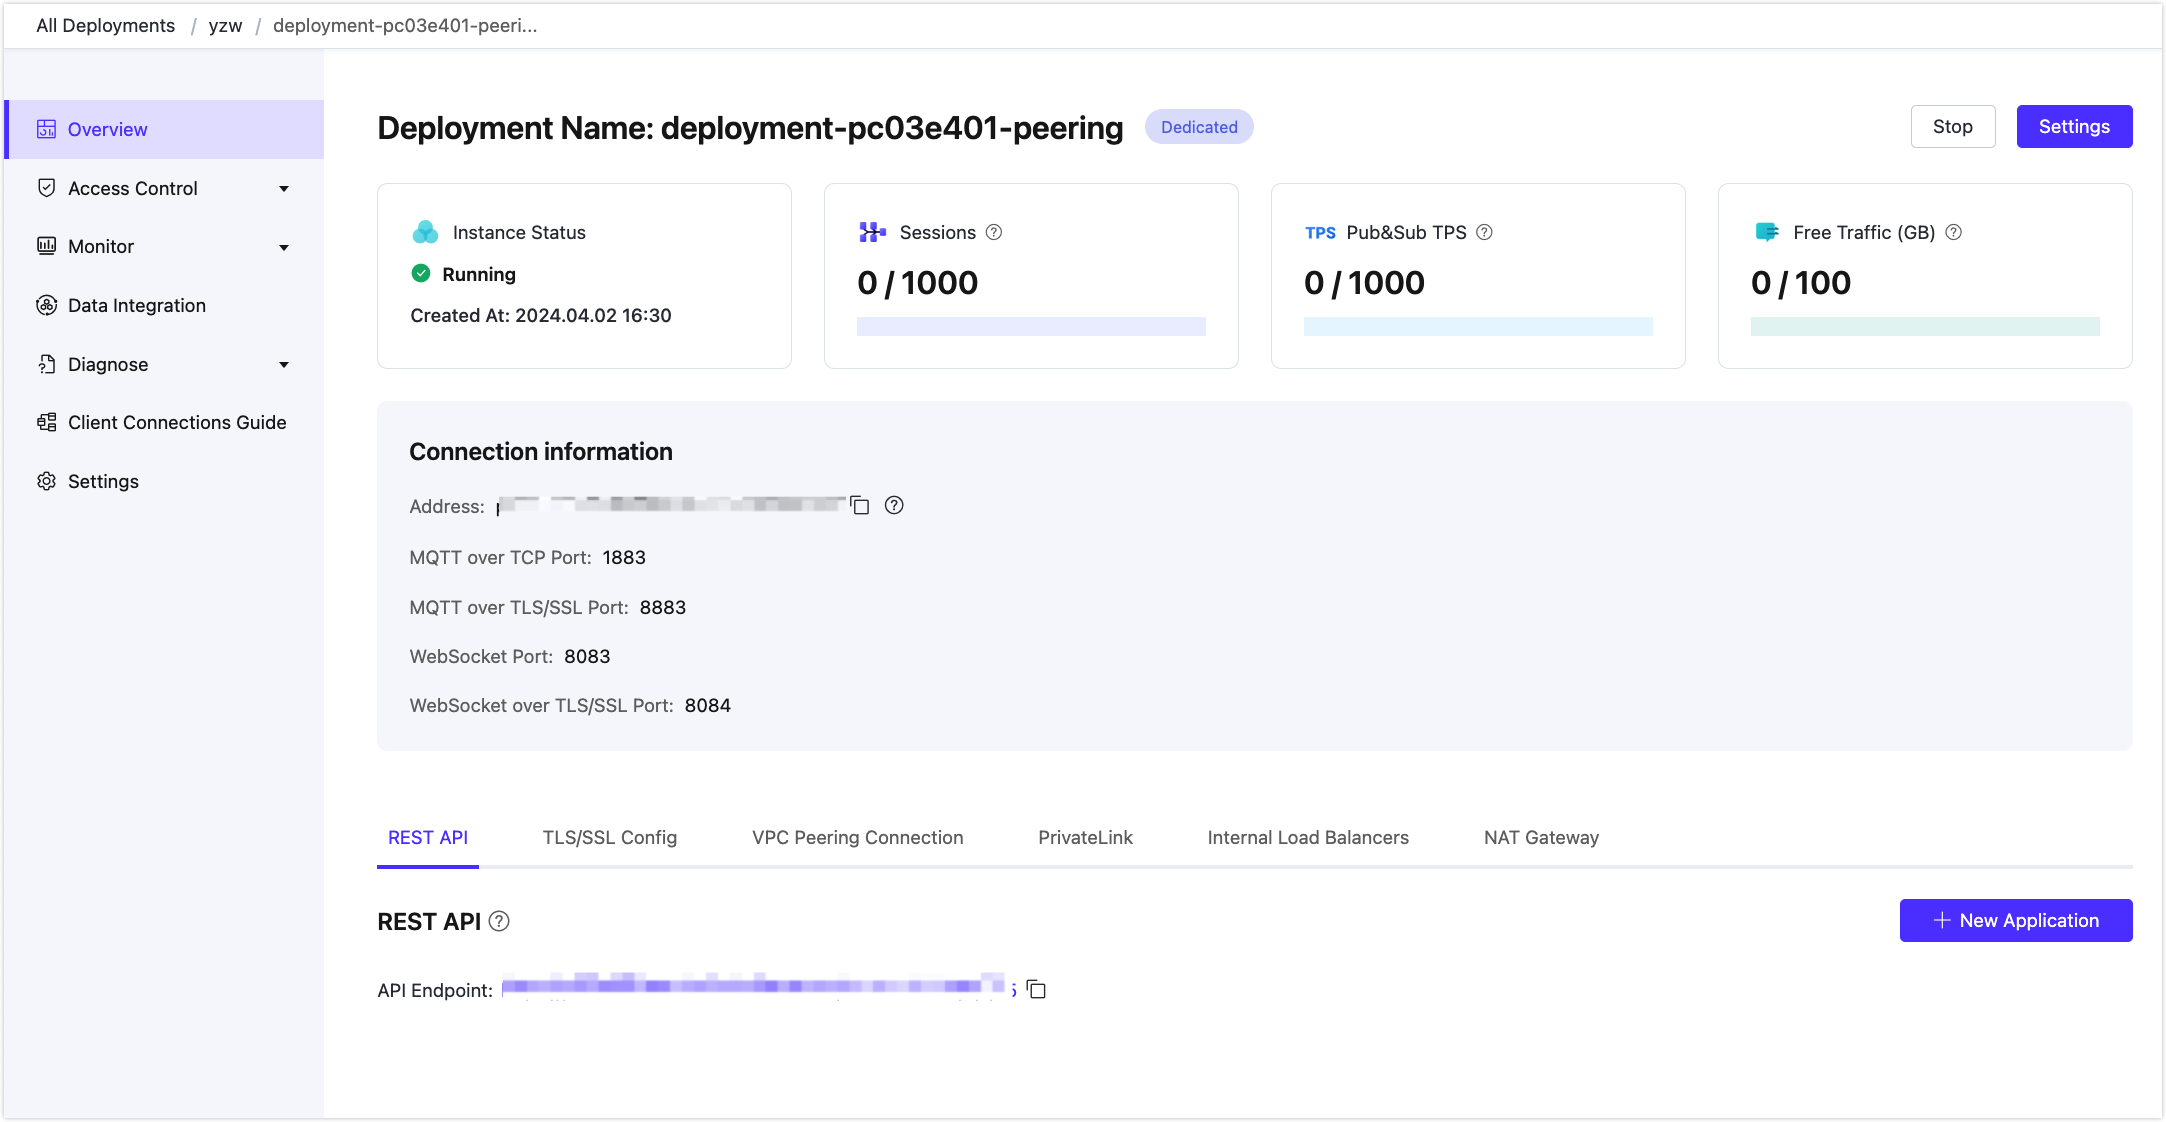
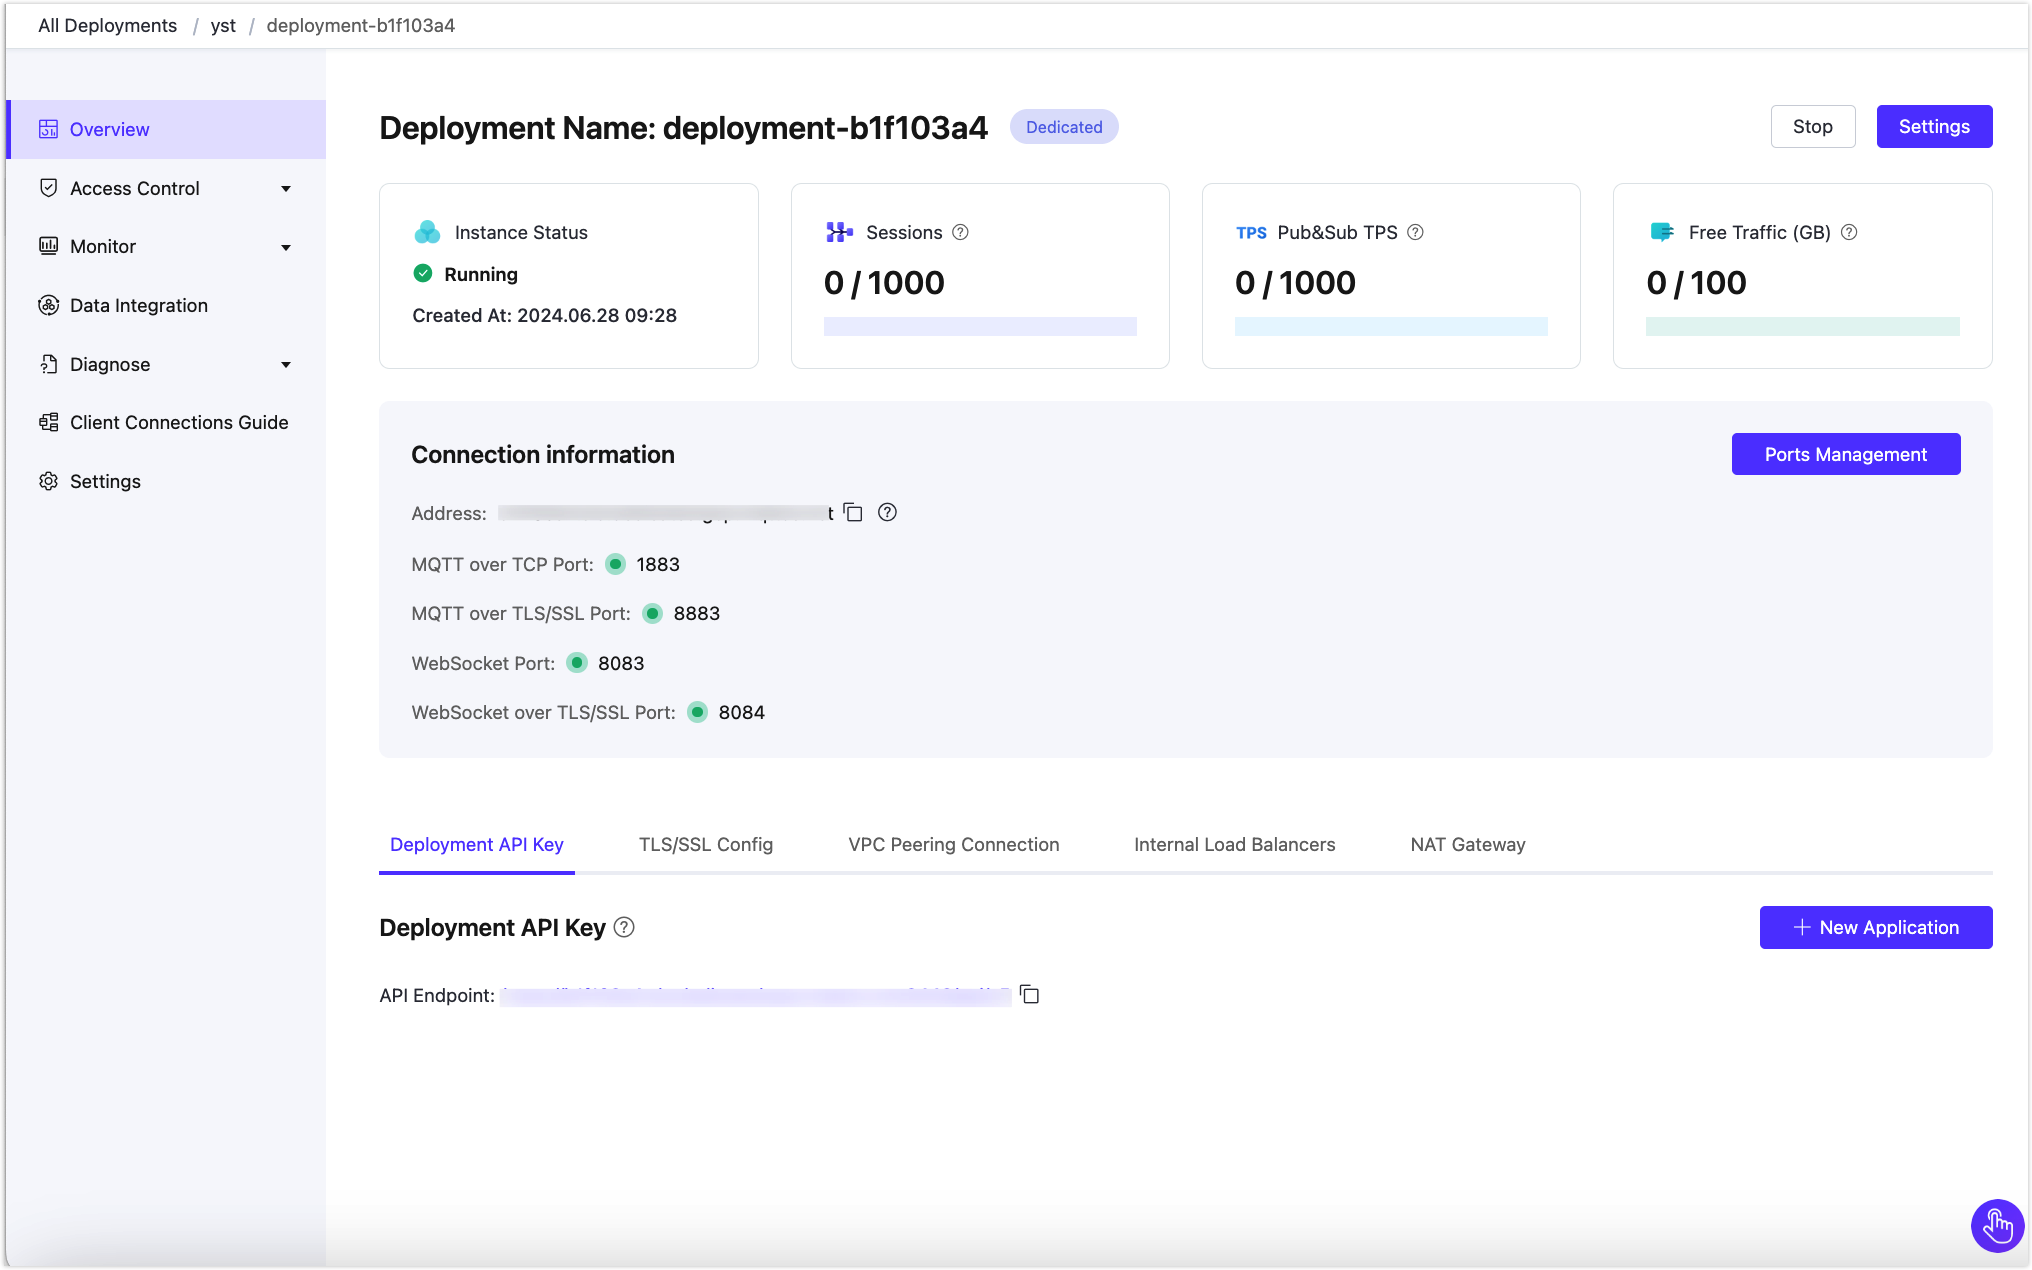
feat(docs): v5 5.1.1 update (en)

diff --git a/en_US/price/pricing.md b/en_US/price/pricing.md
@@ -8,35 +8,41 @@ EMQX Serverless Plan is billed based on the actual usage of your deployment, inc
 
 ### Billing Unit
 
-**Session Minute**: Represents a connection to the deployment for any duration within a one-minute timeframe. For billing purposes, any partial minute of connection is rounded up and considered as a full minute. 
-
-**Session**: The total number of clients that are currently connected simultaneously, including offline clients that have enabled [persistent sessions](https://www.emqx.com/en/blog/mqtt-session).
+**Connection time**: Calculated by connection minutes, where 1 connection minute is the unit for measuring 1 client connection to the deployment for 1 minute. Any duration less than 1 minute is calculated as a full minute.
 
 **Traffic:** Traffic (including free traffic) refers to all public network traffic that flows in and out of your deployment.
 
 **Rule Action:** The total number of action execution times in [Data Integration](../data_integration/introduction.md).
 
+::: tip Related Terms
+
+**Number of Client Connections**: The number of clients simultaneously online (including offline clients that have enabled persistent sessions) connected to the deployment.
+
+**[Persistent Session](https://www.emqx.com/en/blog/mqtt-session)**: A session that remains active and stores offline messages when the client disconnects, until the session times out and is logged out. 
+
+:::
+
 ### Billing Plan
 
 | Billing Unit | **Free quota**                  | **Price**           |
 | -------------------- | -------------------------------------------- | ------------------|
-| Session       |  1 million session minutes / month     | $ 2.00 per million session minutes                                |
+| Connection time |  1 million connection minutes / month  | $ 2.00 per million connection minutes                      |
 | Traffic     | 1 GB / month              | $ 0.15 / GB              |
 | Rule Action     | 1 million rule action executions / month | $ 0.25 per million rule action executions |
 
 ### Billing method
 
-**Session fee** = sessions * connection span (measured per minute or part thereof) / 1,000,000 * 2 <br />
+**Connection time fee** = Number of connected clients * connection time (in minutes, rounded up to the nearest minute) / 1,000,000 * 2 <br />
 **Traffic fee** = Inbound and outbound traffic（byte）/ 1024 / 1024 / 1024 * 0.15 <br />
 **Rule Action fee** = Number of rule action executions / 1,000,000 * 0.25
 
-::: tip
+::: tip Billing use case
 
-Assume in a 24-hour billing period, a user has 120 sessions for 10 hours, 20 sessions for 10 hours, and 0 sessions for 4 hours, the total session minutes are: 120 * 60 * 10 + 20 * 60 * 10 + 0 = 84,000, and the session fee is 0 if this falls within the free quota. If the free quota has run out, the session fee will be 84,000 / 1,000,000 * 2 = 0.168, rounded up to $ 0.17. The traffic fee and the rule action fee are calculated in the same way as the session.
-
-:::
+Assume in a 24-hour billing period, a user has 120 client connections for 10 hours, 20 client connections for 10 hours, and 0 client connections for 4 hours, the total connection minutes are: 120 * 60 * 10 + 20 * 60 * 10 + 0 = 84,000, and the connection time fee is 0 if this falls within the free quota. If the free quota has run out, the connection time fee will be 84,000 / 1,000,000 * 2 = 0.168, rounded up to $ 0.17. 
 
 The bill is calculated based on the fees accumulated in the previous 24 hours, with collections taking place at 0:00 daily. You can go to the [Billings](https://docs.emqx.com/en/cloud/latest/billing/overview.html) page in EMQX Platform console to find the details.
+
+:::
 
 ### Spend Limit
 
@@ -54,20 +60,32 @@ EMQX Dedicated Plan is charged based on the tier, and message transmission netwo
 
 ### Billing Unit
 
-**Session**: Total number of  clients that are currently connected simultaneously, including offline clients that have enabled [Persistent sessions](https://www.emqx.com/en/blog/mqtt-session).
+**Base Fee**: The base fee for the instance is calculated based on the hourly unit price corresponding to the selected product plan and instance tier (maximum number of connections, message TPS) at the time of deployment. In practical usage, this fee is only related to the duration of usage and will not be affected by changes in usage (number of connections, message TPS).
 
-**Base Fee**: The base fee for the instance is calculated based on the hourly unit price corresponding to the selected product plan and instance tier (maximum connection number, message TPS) at the time of deployment. In practical usage, this fee is only related to the duration of usage and will not be affected by changes in usage (connection number, message TPS).
+**Traffic Fee**: Each instance tier includes a certain amount of free traffic. The free traffic is valid for the current month and any remaining amount will be automatically cleared at the end of the month. When device communication exceeds the free traffic, the excess part will be charged as traffic fees.
 
-**Traffic Fee**: Each instance tier includes a certain amount of free traffic, which is valid for the current month and will be automatically cleared at the end of the month if any remains. When device communication exceeds the gifted traffic, additional traffic fees will be charged. Here, traffic, including free traffic, measures all traffic flowing out of the deployment, including:
+::: tip Related Terms
 
-   - Traffic over VPC Peering or PrivateLink is not measured.
-   - Traffic from messages received by the deployment, such as messages sent to the deployment from the clients, is not measured.
-   - If the NAT gateway is enabled, outgoing traffic from deployment will be measured.
+**Number of Clicnet Connections:** The total number of clients simultaneously online (including offline clients with persistent sessions).
+
+**[Persistent Session](https://www.emqx.com/en/blog/mqtt-session):** A session that remains active and stores offline messages when the client disconnects until the session times out and is logged out.
+
+**Traffic:** Traffic (including free traffic) refers to all public network traffic flowing out of the deployment.
+
+- Traffic through VPC peering connections or private network connections is not included in the traffic calculation.
+
+- Traffic of messages received by the deployment (e.g., messages sent to the deployment by clients) is not included in the traffic calculation.
+
+- If a NAT gateway is enabled, the traffic flowing out of the deployment is considered public network traffic and will be included in the traffic calculation. 
+
+  :::
+
+### Specification Based Fee for Dedicated Plan
 
 <table>
    <tr>
       <th>Plan</th>
-      <th>tier</th>
+      <th>Tier</th>
       <th>Base Fee</th>
       <th>Free Traffic</th>
       <th>Traffic exceeded</th>
@@ -94,8 +112,9 @@ EMQX Dedicated Plan is charged based on the tier, and message transmission netwo
    <tr>
       <td>>10,000 connections</td>
       <td colspan="3" align="center">Contact us</td>
-   </tr>
+  </tr>
 </table>
+
 
 ::: tip
 Prices may vary depending on the public cloud platform selected and the deployment region. The actual price is based on the price displayed on the deployment page.

diff --git a/en_US/create/dedicated.md b/en_US/create/dedicated.md
@@ -38,8 +38,9 @@ After the deployment is created, it will appear on the EMQX Platform console hom
 
 ### Connection Information
 
-- **Address**: The IP address
+- **Address**: The IP address.
 - **Ports**: `1883` (mqtt) and `8083` (ws) are enabled by default. You can configure TLS/SSL to enable `8883` (mqtts) and `8084` (wss) ports.
+- **Ports Management**: Allows you to open or close an individual port separately.
 
 Check out the [Connection guide](../deployments/port_guide_dedicated.md) to learn more.
 
